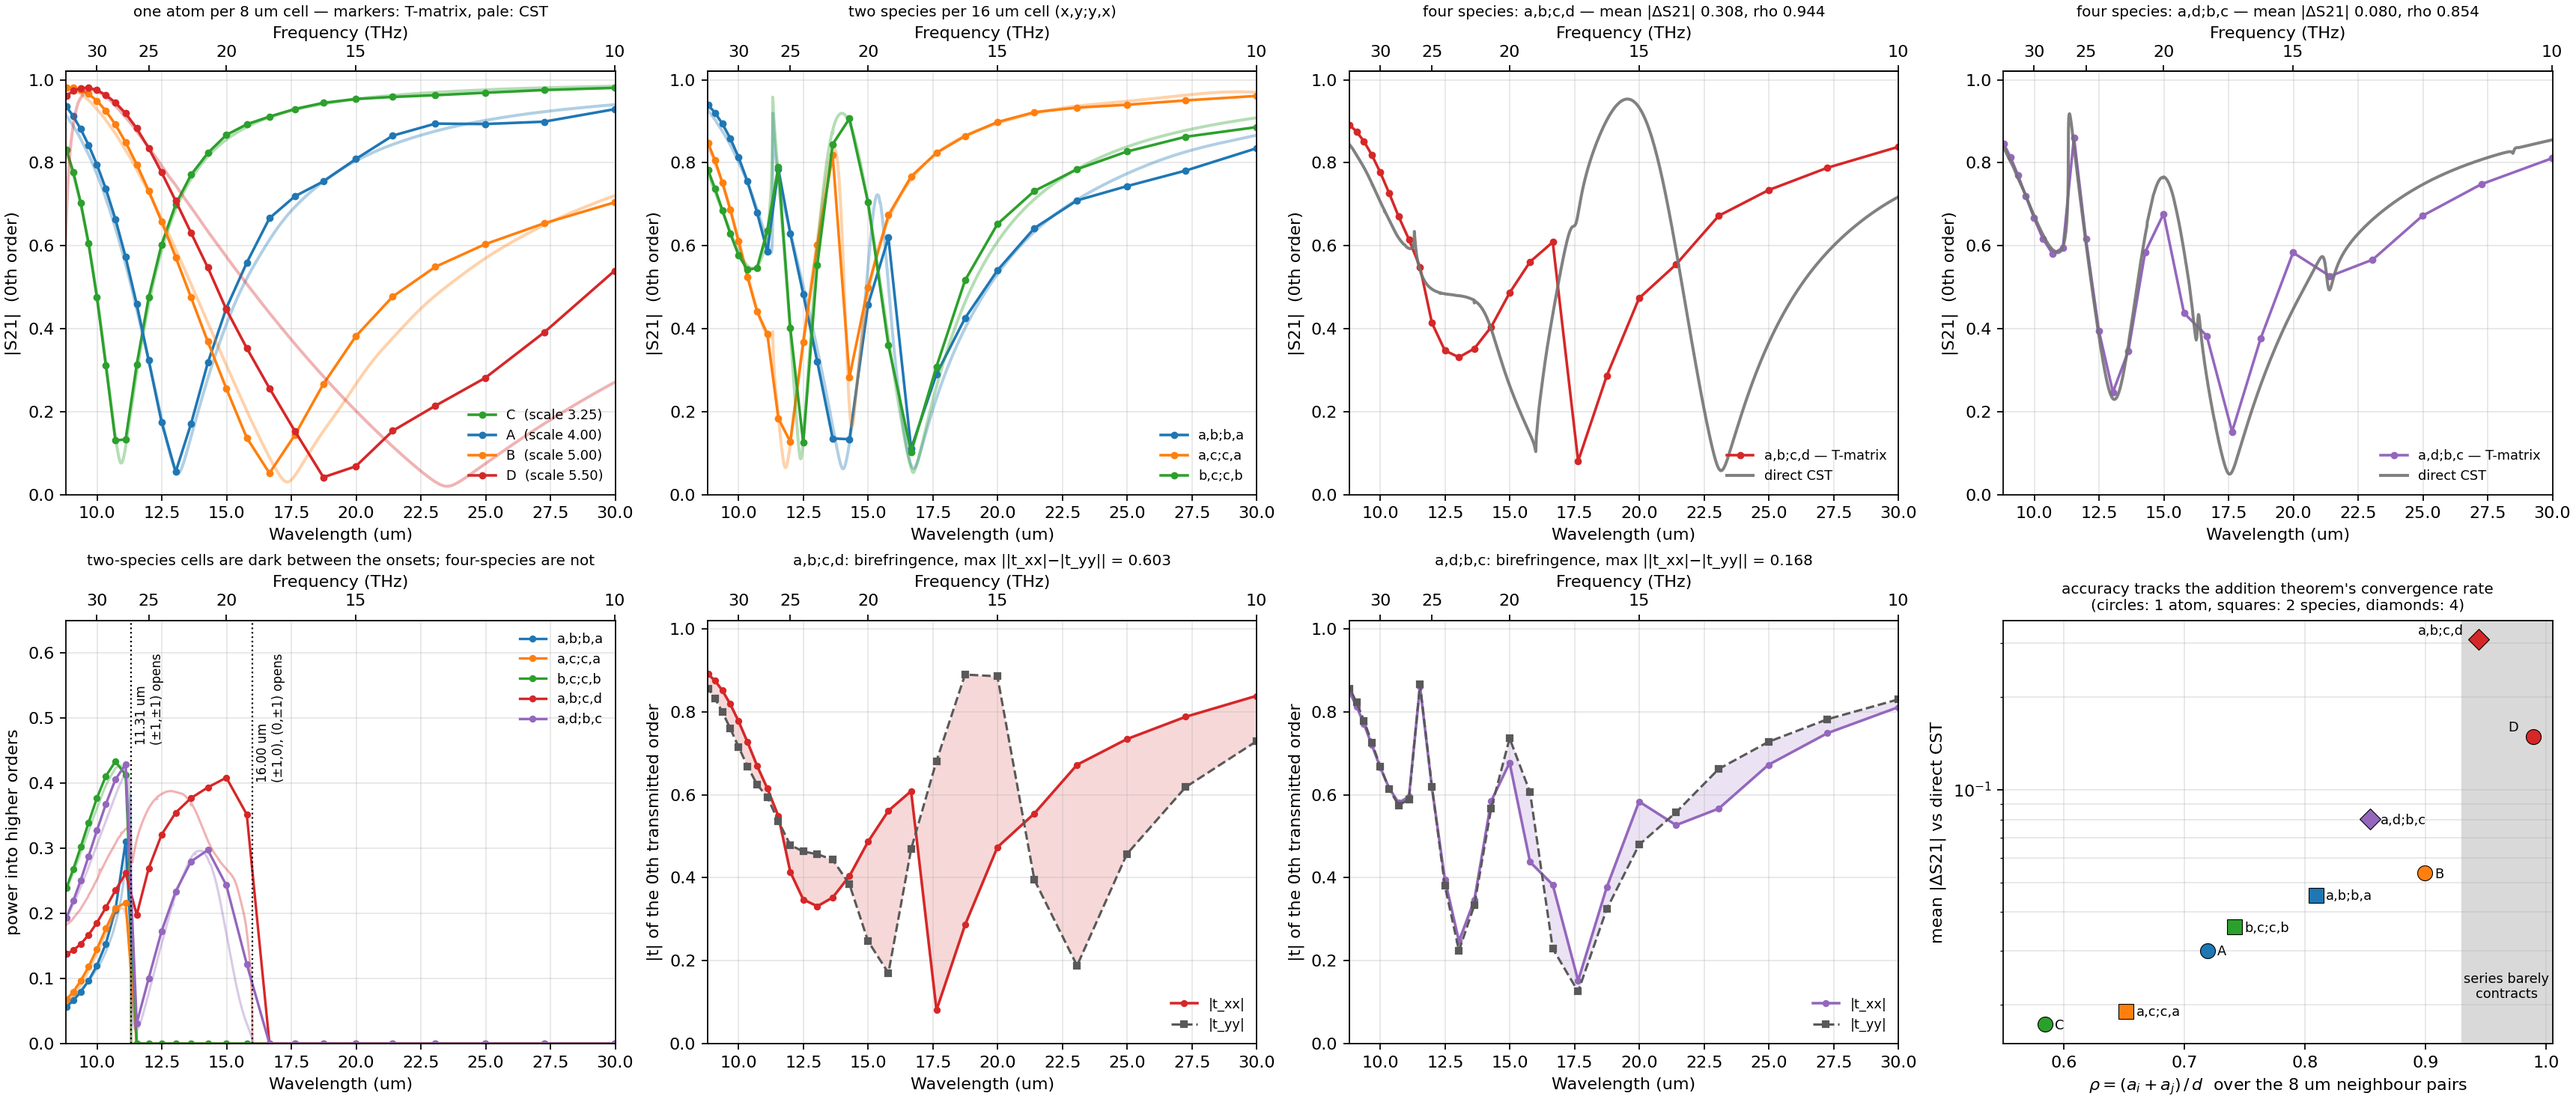
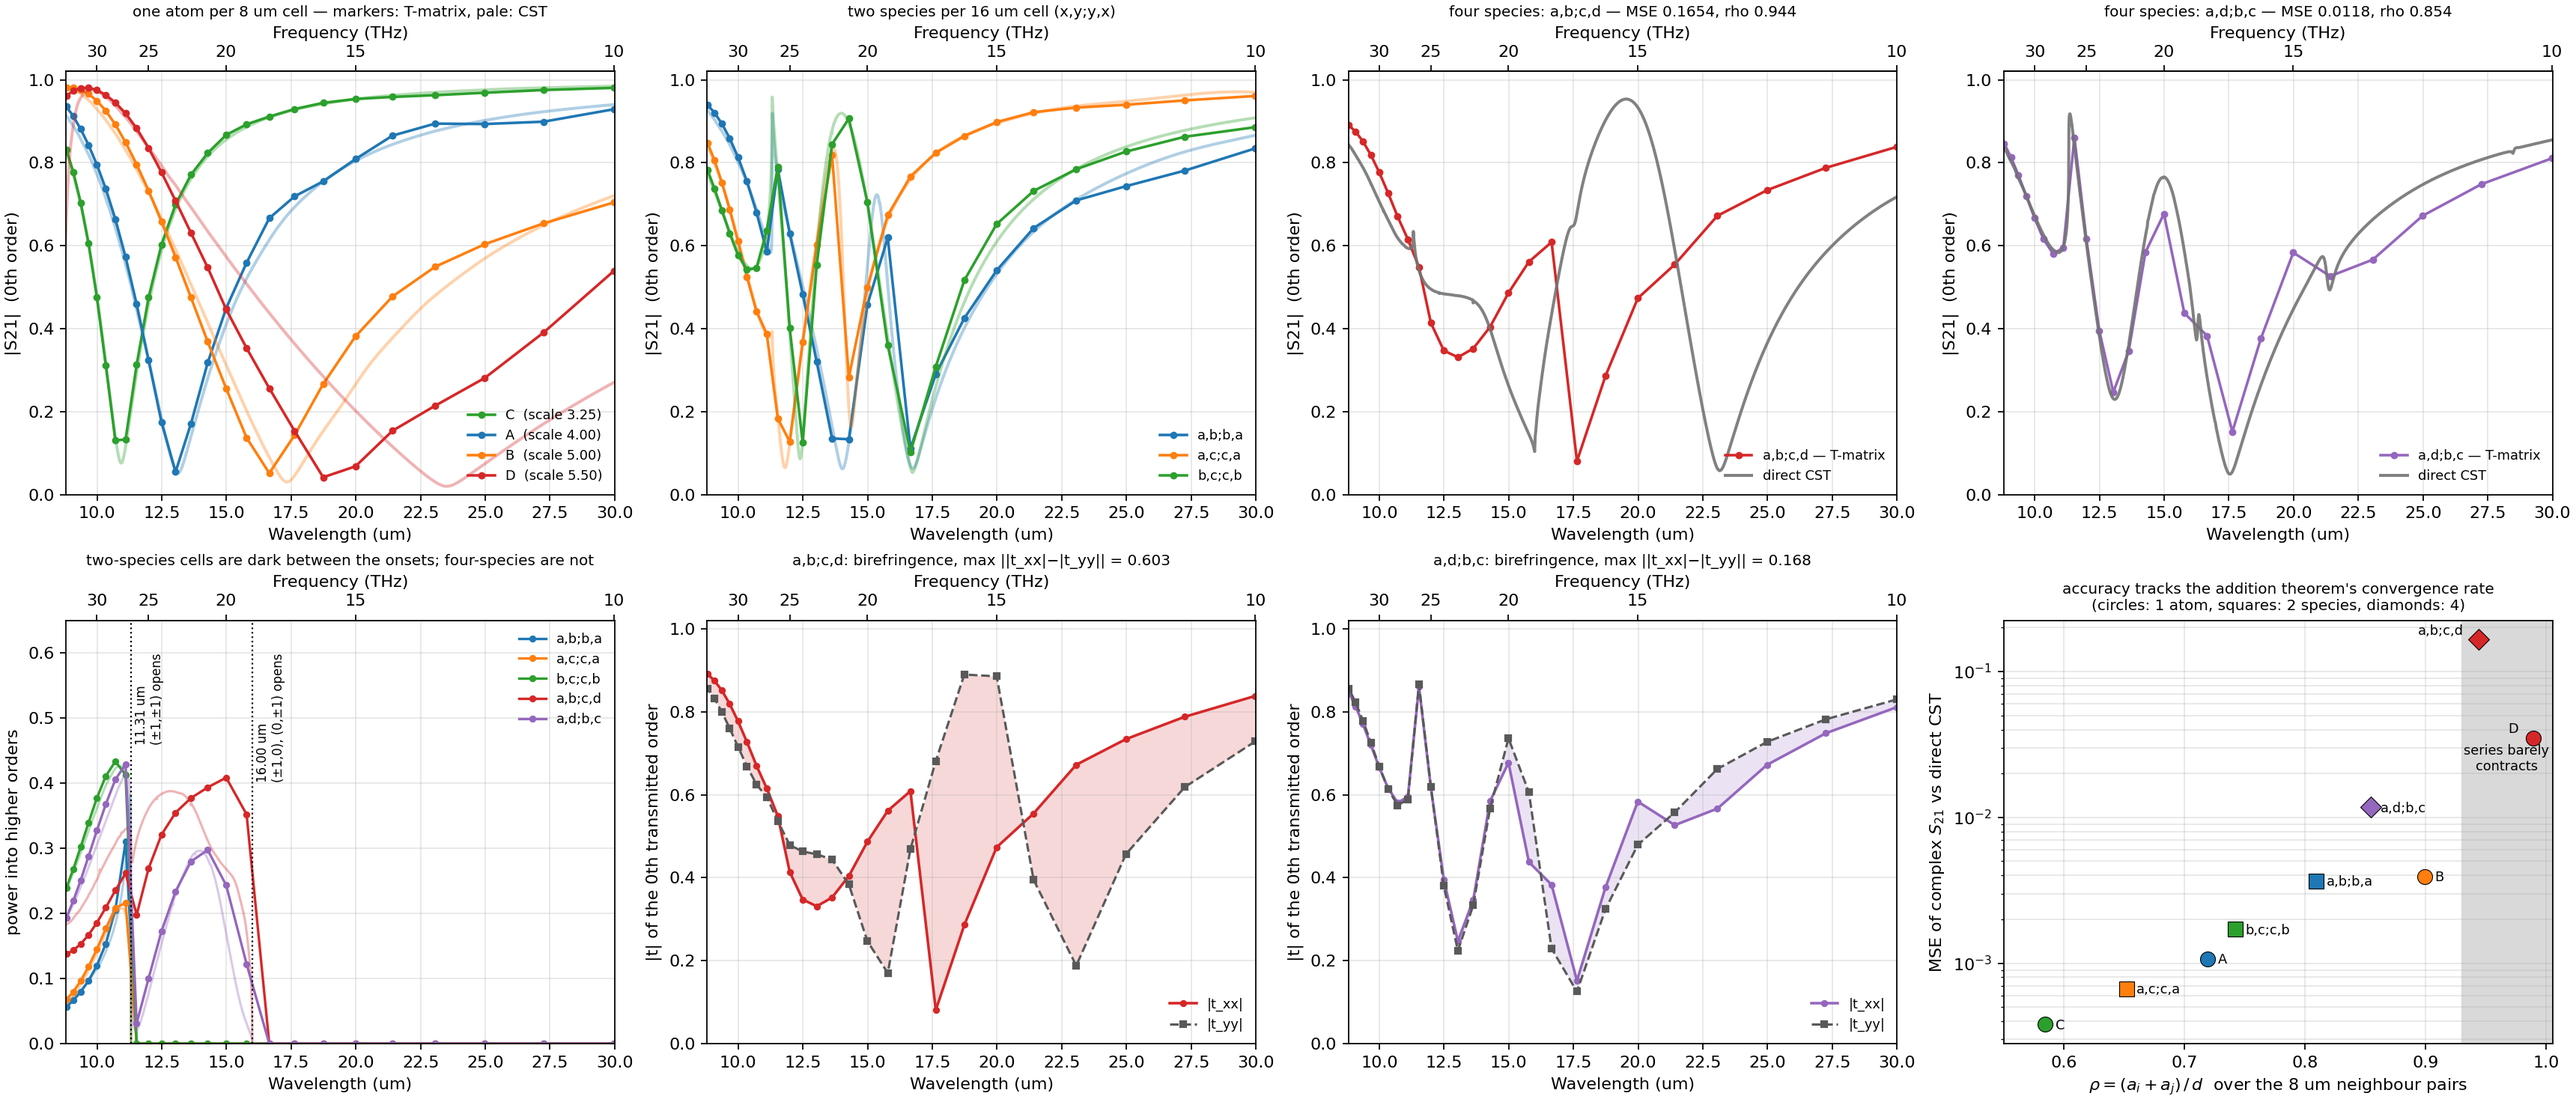
Score every benchmark by the MSE of the complex S-parameter
mean(|S_pred - S_CST|^2) over the stored frequencies, on the complex
amplitude rather than its magnitude, so a phase error counts.

The metric matters for the four-atom comparison: a,b;c,d fails by
misplacing a few resonances rather than by drifting across the band, so
MSE separates the two arrangements by 14x (0.1654 vs 0.0118) where the
mean absolute error separates them by 3.8x.

Switched in the figures (fig4_comparison, fig5_slide), compare_cases.py,
and the accuracy tables in README.md, experiment.md and both four-atom
REPORTs, with mean |dS| kept alongside.

diff --git a/aggregation/plot_comparison.py b/aggregation/plot_comparison.py
@@ -10,9 +10,12 @@ Top row     single atoms, the two-species checkerboards, then ONE PANEL PER
 Bottom row  power into higher diffraction orders against the two Rayleigh
             onsets (the two-species cells are dark between them by symmetry,
             the four-atom cells are not); the birefringence of each four-atom
-            cell, again one panel each; and the accuracy summary -- mean |dS21|
-            against the addition theorem's convergence ratio
+            cell, again one panel each; and the accuracy summary -- the MSE of
+            complex S21 against the addition theorem's convergence ratio
             rho = (a_i + a_j)/d, maximised over the 8 um neighbour pairs.
+
+MSE is mean(|S21_predicted - S21_CST|^2) over the 25 stored frequencies, on the
+complex amplitude rather than its magnitude, so a phase error counts.
 
 Cases whose directory or CST reference is missing are skipped, so this runs
 while benchmarks are still solving.
@@ -104,9 +107,9 @@ def main():
         err = ""
         if got is not None and got[1] is not None:
             r, cst = got
-            e = np.abs(r["S21"] - interp_c(r["lam"], cst["lam"],
-                                           cst["S21"])).mean()
-            err = f" — mean |ΔS21| {e:.3f}, rho {rho(case[3]):.3f}"
+            dz = r["S21"] - interp_c(r["lam"], cst["lam"], cst["S21"])
+            err = (f" — MSE {np.mean(np.abs(dz) ** 2):.4f}, "
+                   f"rho {rho(case[3]):.3f}")
         spanel(ax[0, col], [case], f"four species: {case[1]}{err}")
 
     # ---- diffracted power -------------------------------------------------
@@ -168,8 +171,8 @@ def main():
             if got is None or got[1] is None:
                 continue
             r, cst = got
-            err = np.abs(r["S21"] - interp_c(r["lam"], cst["lam"],
-                                             cst["S21"])).mean()
+            dz = r["S21"] - interp_c(r["lam"], cst["lam"], cst["S21"])
+            err = float(np.mean(np.abs(dz) ** 2))
             x = rho(spec)
             a.plot(x, err, mk, ms=9, color=c, mec="k", mew=0.5)
             right = x > 0.92           # keep labels clear of the right edge
@@ -181,7 +184,7 @@ def main():
     a.text(0.967, 0.021, "series barely\ncontracts", fontsize=8, ha="center")
     a.set_yscale("log")
     a.set_xlabel(r"$\rho = (a_i + a_j)\,/\,d$  over the 8 um neighbour pairs")
-    a.set_ylabel("mean |ΔS21| vs direct CST")
+    a.set_ylabel(r"MSE of complex $S_{21}$ vs direct CST")
     a.set_xlim(0.55, 1.005)
     a.grid(alpha=0.3, which="both")
     a.set_title("accuracy tracks the addition theorem's convergence rate\n"

diff --git a/aggregation/compare_cases.py b/aggregation/compare_cases.py
@@ -9,6 +9,10 @@ implementation (which measures the aggregation) and with the direct CST run
 observables that distinguish one cell from another: where the transmission dips
 sit, how much power leaves in higher orders, and whether the answer is passive.
 
+The CST columns are the MSE of the complex S-parameter, mean(|S_pred - S_CST|^2)
+over the 25 stored frequencies -- on the complex amplitude, not its magnitude,
+so a phase error counts.
+
 Directories without a CST reference are reported with the CST columns blank.
 """
 import argparse
@@ -55,7 +59,8 @@ def main():
 
     print(f"{'case':<10} {'vs treams':>10} {'vs CST S21':>18} "
           f"{'vs CST S11':>18} {'A range':>16} {'diffr':>7}  dips |S21| (um)")
-    print(f"{'':<10} {'max |dS|':>10} {'max / mean':>18} {'max / mean':>18}")
+    print(f"{'':<10} {'max |dS|':>10} {'MSE / max |d|':>18} "
+          f"{'MSE / max |d|':>18}")
     for d in dirs:
         p = d if os.path.isabs(d) else os.path.join(HERE, d)
         f = os.path.join(p, "periodic_results.npz")
@@ -75,8 +80,8 @@ def main():
         else:
             d21 = np.abs(m["S21"] - interp_c(lam, cst["lam"], cst["S21"]))
             d11 = np.abs(m["S11"] - interp_c(lam, cst["lam"], cst["S11"]))
-            c21 = f"{d21.max():.3f} / {d21.mean():.3f}".rjust(18)
-            c11 = f"{d11.max():.3f} / {d11.mean():.3f}".rjust(18)
+            c21 = f"{np.mean(d21 ** 2):.5f} / {d21.max():.3f}".rjust(18)
+            c11 = f"{np.mean(d11 ** 2):.5f} / {d11.max():.3f}".rjust(18)
         arange = f"[{m['A'].min():+.3f}, {m['A'].max():+.3f}]".rjust(16)
         diffr = f"{(m['R_hi'] + m['T_hi']).max():.3f}".rjust(7)
         dd = ", ".join(f"{l:.2f} ({v:.3f})" for l, v in dips(lam, m["S21"]))

diff --git a/aggregation/plot_figure_slide.py b/aggregation/plot_figure_slide.py
@@ -7,6 +7,10 @@ Six panels, top row spectra and bottom row the geometry that explains them:
   a  the four meta-atoms, each alone on its own 8 um lattice
   b  a,b;c,d  — T-matrix prediction against its own direct CST run
   c  a,d;b,c  — the same four atoms rearranged
+
+Panels b and c are scored by the MSE of the complex 0th-order S21,
+mean(|S21_predicted - S21_CST|^2) over the 25 stored frequencies -- on the
+complex amplitude rather than its magnitude, so a phase error counts.
   d  the four atoms drawn to scale, so the size series in (a) is visible
   e  the a,b;c,d cell, to scale, with the tightest neighbour gap marked
   f  the a,d;b,c cell, likewise
@@ -102,8 +106,9 @@ def spectra_quad(ax, case, tag):
     if cst is not None:
         ax.plot(cst["lam"], np.abs(cst["S21"]), "-", lw=1.9, color="0.35",
                 label="direct CST", zorder=2)
-        e = np.abs(r["S21"] - interp_c(r["lam"], cst["lam"], cst["S21"])).mean()
-        sub = f"\nmean |ΔS21| = {e:.3f}"
+        dz = r["S21"] - interp_c(r["lam"], cst["lam"], cst["S21"])
+        mse = float(np.mean(np.abs(dz) ** 2))
+        sub = f"\nMSE = {mse:.4f}    (RMSE {np.sqrt(mse):.3f})"
     ax.legend(frameon=False, fontsize=9, loc="lower right")
     label(ax, tag, f"2×2 — {name}{sub}")
 

diff --git a/experiment.md b/experiment.md
@@ -278,17 +278,21 @@ dark channels: 6.1×10⁻⁶ against a 0.989 carrier.
 
 ### The headline: mixing is free
 
-| case | mean \|ΔS21\| vs its own direct CST run | mean \|ΔS11\| |
-|---|---|---|
-| atom C alone | 0.017 | 0.020 |
-| a,c;c,a | 0.019 | 0.020 |
-| atom A alone | 0.030 | 0.041 |
-| b,c;c,b | 0.036 | 0.036 |
-| a,b;b,a | 0.046 | 0.048 |
-| atom B alone | 0.054 | 0.073 |
-| a,d;b,c | 0.080 | 0.079 |
-| atom D alone | 0.149 | 0.171 |
-| a,b;c,d | 0.308 | 0.308 |
+Scored by the MSE of the complex S-parameter against the cell's own direct CST
+run — mean(\|S_pred − S_CST\|²) over the stored frequencies, on the complex
+amplitude so a phase error counts — with the mean absolute error alongside:
+
+| case | MSE S21 | MSE S11 | mean \|ΔS21\| | mean \|ΔS11\| |
+|---|---|---|---|---|
+| atom C alone | 0.00038 | 0.00050 | 0.017 | 0.020 |
+| a,c;c,a | 0.00067 | 0.00068 | 0.019 | 0.020 |
+| atom A alone | 0.00107 | 0.00185 | 0.030 | 0.041 |
+| b,c;c,b | 0.00171 | 0.00166 | 0.036 | 0.036 |
+| a,b;b,a | 0.00367 | 0.00382 | 0.046 | 0.048 |
+| atom B alone | 0.00393 | 0.00647 | 0.054 | 0.073 |
+| a,d;b,c | 0.0118 | 0.0115 | 0.080 | 0.079 |
+| atom D alone | 0.0351 | 0.0446 | 0.149 | 0.171 |
+| a,b;c,d | **0.1654** | 0.1660 | 0.308 | 0.308 |
 
 Every *two-species* mixed cell lands within the range of its two constituents.
 `a,c;c,a` — the pair that reconstructs best individually — gives the best mixed
@@ -344,17 +348,17 @@ D–D at 8 µm (7.912 vs 8.000). Nothing is formally invalid. What varies is the
 addition theorem's **convergence rate**: the truncation error falls like ρ^lmax
 with ρ = (aᵢ + aⱼ)/d.
 
-| case | worst pair | ρ | ρ³ | mean \|ΔS21\| |
-|---|---|---|---|---|
-| C alone | C–C | 0.584 | 0.200 | 0.017 |
-| a,c;c,a | A–C | 0.652 | 0.277 | 0.019 |
-| A alone | A–A | 0.719 | 0.372 | 0.030 |
-| b,c;c,b | B–C | 0.742 | 0.408 | 0.036 |
-| a,b;b,a | A–B | 0.809 | 0.530 | 0.046 |
-| a,d;b,c | A–D | 0.854 | 0.623 | 0.080 |
-| B alone | B–B | 0.899 | 0.727 | 0.054 |
-| a,b;c,d | B–D | 0.944 | 0.841 | 0.308 |
-| D alone | D–D | 0.989 | 0.967 | 0.149 |
+| case | worst pair | ρ | ρ³ | MSE S21 | mean \|ΔS21\| |
+|---|---|---|---|---|---|
+| C alone | C–C | 0.584 | 0.200 | 0.00038 | 0.017 |
+| a,c;c,a | A–C | 0.652 | 0.277 | 0.00067 | 0.019 |
+| A alone | A–A | 0.719 | 0.372 | 0.00107 | 0.030 |
+| b,c;c,b | B–C | 0.742 | 0.408 | 0.00171 | 0.036 |
+| a,b;b,a | A–B | 0.809 | 0.530 | 0.00367 | 0.046 |
+| a,d;b,c | A–D | 0.854 | 0.623 | 0.0118 | 0.080 |
+| B alone | B–B | 0.899 | 0.727 | 0.00393 | 0.054 |
+| a,b;c,d | B–D | 0.944 | 0.841 | **0.1654** | 0.308 |
+| D alone | D–D | 0.989 | 0.967 | 0.0351 | 0.149 |
 
 At ρ = 0.989 each extra multipole order buys 1 %, so lmax of order 100 would be
 needed — and long before that the lattice sum's amplification of the noisy

diff --git a/aggregation/results_2x2_ADBC_l3/REPORT.md b/aggregation/results_2x2_ADBC_l3/REPORT.md
@@ -79,13 +79,13 @@ longest and heaviest solve in the study. Built by
 `build_2x2_supercell.py --pair ADBC`, same settings as every other cell, sharing
 the `runs/empty` companion run.
 
-| | max | mean |
-|---|---|---|
-| complex S21 | 0.347 | **0.080** |
-| complex S11 | 0.342 | 0.079 |
-| R / T / A | 0.349 / 0.141 / 0.317 | 0.063 / 0.045 / 0.047 |
-| … \|ΔS21\| below 20 THz | | 0.139 |
-| … \|ΔS21\| above 20 THz | | **0.041** |
+| | MSE | max \|Δ\| | mean \|Δ\| |
+|---|---|---|---|
+| complex S21 | **0.0118** | 0.347 | 0.080 |
+| complex S11 | 0.0115 | 0.342 | 0.079 |
+| R / T / A | — | 0.349 / 0.141 / 0.317 | 0.063 / 0.045 / 0.047 |
+| … S21 below 20 THz | 0.0264 | | 0.139 |
+| … S21 above 20 THz | **0.0020** | | 0.041 |
 
 | feature | this repo (refined grid) | direct CST | offset |
 |---|---|---|---|
@@ -95,15 +95,18 @@ the `runs/empty` companion run.
 | diffracted power, maximum | 0.429 | 0.415 | 3 % relative |
 
 **The prediction made before either run finished holds.** `a,d;b,c` was expected
-to land between the two-species cells (0.019–0.046) and `a,b;c,d` (0.308) on the
-strength of its better worst-pair convergence ratio, and it does: **0.080**, a
-factor 3.8 better than `a,b;c,d` from the same four atoms. Both of its dips are
-placed to under 1 %, against −10.2 % for the D-derived dip in `a,b;c,d`.
+to land between the two-species cells (MSE 0.0007–0.0037) and `a,b;c,d`
+(0.1654) on the strength of its better worst-pair convergence ratio, and it
+does: **MSE 0.0118**, a factor **14** better than `a,b;c,d` from the same four
+atoms (3.8× on the mean absolute error — MSE separates them further because
+`a,b;c,d` fails by badly misplacing a few resonances rather than by drifting
+across the band). Both of its dips are placed to under 1 %, against −10.2 % for
+the D-derived dip in `a,b;c,d`.
 
-Above 20 THz the agreement is 0.041 — indistinguishable from the well-behaved
-two-species cells. The error is concentrated below 20 THz, where atom D
-resonates and where its rho = 0.854 pair coupling is least converged. So even
-with the widest gap of the three arrangements there is residual translation
+Above 20 THz the agreement is MSE 0.0020 — indistinguishable from the
+well-behaved two-species cells. The error is concentrated below 20 THz, where
+atom D resonates and where its rho = 0.854 pair coupling is least converged. So
+even with the widest gap of the three arrangements there is residual translation
 error; it simply is not catastrophic.
 
 Why the solve took 4.9 h against 1.8 h for `a,b;c,d`: 95 frequency points

diff --git a/aggregation/results_2x2_ABCD_l3/REPORT.md b/aggregation/results_2x2_ABCD_l3/REPORT.md
@@ -103,12 +103,12 @@ arrangement that separates them.
 `build_2x2_supercell.py --pair ABCD`, same settings as every other cell, sharing
 the `runs/empty` companion run for de-embedding.
 
-| | max | mean |
-|---|---|---|
-| complex S21 | 0.840 | **0.308** |
-| complex S11 | 0.833 | 0.308 |
-| … \|ΔS21\| below 20 THz | | **0.580** |
-| … \|ΔS21\| above 20 THz | | 0.126 |
+| | MSE | max \|Δ\| | mean \|Δ\| |
+|---|---|---|---|
+| complex S21 | **0.1654** | 0.840 | 0.308 |
+| complex S11 | 0.1660 | 0.833 | 0.308 |
+| … S21 below 20 THz | **0.3807** | | 0.580 |
+| … S21 above 20 THz | 0.0218 | | 0.126 |
 
 | feature | this repo (refined grid) | direct CST | offset |
 |---|---|---|---|
@@ -118,14 +118,15 @@ the `runs/empty` companion run for de-embedding.
 | dark-channel check | — | odd family **carries** 0.388 | as predicted |
 
 **This is the worst-agreeing cell in the study**, and the error is concentrated
-below 20 THz (0.580 against 0.126 above), which is exactly where atom D
-resonates and where its rho = 0.944 pair coupling with B is least converged.
-Above 20 THz, where the smaller atoms dominate, the agreement is ordinary.
+below 20 THz (MSE 0.381 against 0.022 above — a factor 17), which is exactly
+where atom D resonates and where its rho = 0.944 pair coupling with B is least
+converged. Above 20 THz, where the smaller atoms dominate, the agreement is
+ordinary.
 
 Compare `a,d;b,c` — the same four atoms rearranged so that D's 8 µm neighbour is
-A (rho = 0.854) instead of B — which reaches 0.080 and places both dips to under
-1 %. Composition, density and lattice are identical; only which atom sits next
-to which differs.
+A (rho = 0.854) instead of B — which reaches MSE 0.0118 and places both dips to
+under 1 %. Composition, density and lattice are identical; only which atom sits
+next to which differs, and it costs a factor **14** in MSE.
 
 The diffraction bookkeeping is nonetheless right even here: the odd orders that
 the checkerboards extinguished carry 0.388 in the direct run against 0.409

diff --git a/README.md b/README.md
@@ -361,17 +361,24 @@ sums over all open orders:
 | finite-cluster T^O vs the multi-center far field, L_C = 14 | 1.9×10⁻⁹ |
 | **independent treams implementation, every cell** | **≤ 1×10⁻¹²** |
 
-**Against direct CST**, mean \|ΔS21\| for each of the nine benchmarks, ordered by
+**Against direct CST**, the MSE of the complex 0th-order S21 —
+mean(\|S21_pred − S21_CST\|²) over the stored frequencies, on the complex
+amplitude so a phase error counts — for each of the nine benchmarks, ordered by
 the addition theorem's convergence ratio ρ = (aᵢ + aⱼ)/d over the 8 µm
 neighbour pairs:
 
-| case | ρ | mean \|ΔS21\| | | case | ρ | mean \|ΔS21\| |
-|---|---|---|---|---|---|---|
-| C alone | 0.584 | 0.017 | | a,b;b,a | 0.809 | 0.046 |
-| a,c;c,a | 0.652 | 0.019 | | B alone | 0.899 | 0.054 |
-| A alone | 0.719 | 0.030 | | a,d;b,c | 0.854 | 0.080 |
-| b,c;c,b | 0.742 | 0.036 | | D alone | 0.989 | **0.149** |
-| | | | | a,b;c,d | 0.944 | **0.308** |
+| case | ρ | MSE | mean \|ΔS21\| | | case | ρ | MSE | mean \|ΔS21\| |
+|---|---|---|---|---|---|---|---|---|
+| C alone | 0.584 | 0.00038 | 0.017 | | a,d;b,c | 0.854 | 0.0118 | 0.080 |
+| a,c;c,a | 0.652 | 0.00067 | 0.019 | | B alone | 0.899 | 0.0039 | 0.054 |
+| A alone | 0.719 | 0.00107 | 0.030 | | a,b;c,d | 0.944 | **0.1654** | 0.308 |
+| b,c;c,b | 0.742 | 0.00171 | 0.036 | | D alone | 0.989 | **0.0351** | 0.149 |
+| a,b;b,a | 0.809 | 0.00367 | 0.046 | | | | | |
+
+MSE is the metric the figures are scored by; it separates the two four-atom
+cells by **14×** (0.1654 against 0.0118) where the mean absolute error separates
+them by only 3.8×, because the `a,b;c,d` disagreement is concentrated in a few
+badly misplaced resonances rather than spread across the band.
 
 Seven of the nine land at 0.017–0.080, limited by the input T-matrices rather
 than by the aggregation. The two that fail are documented, with the cause
